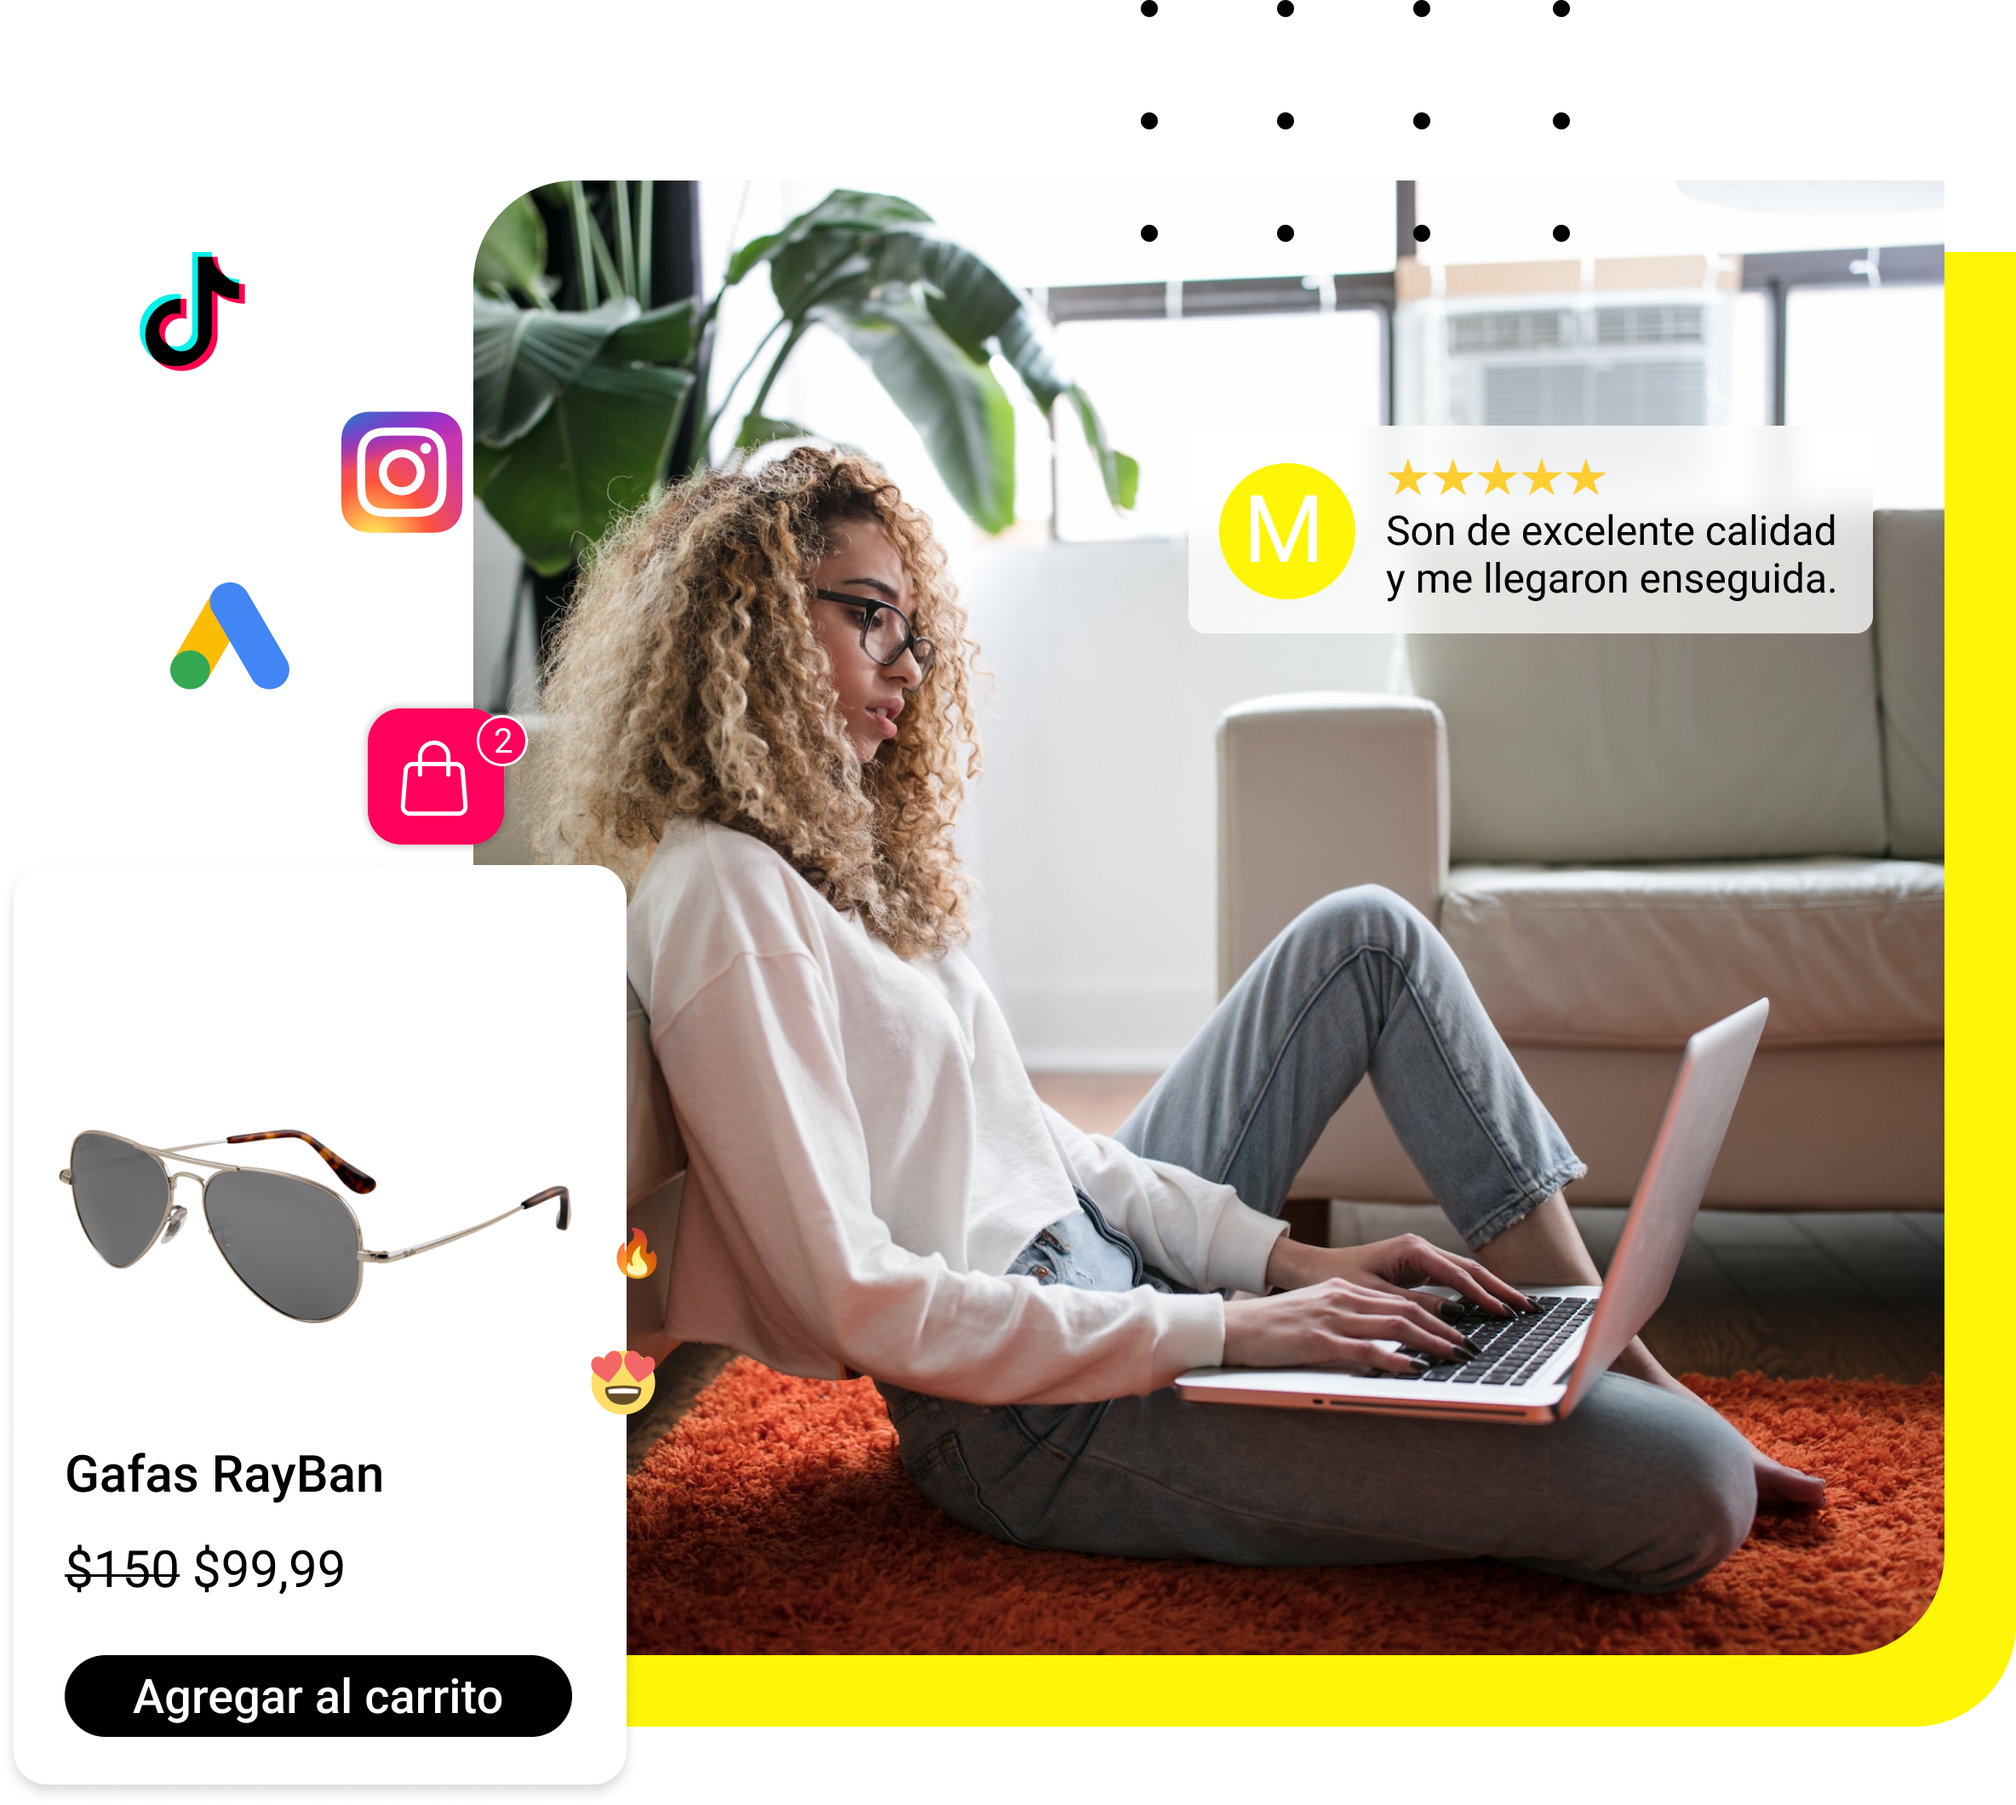
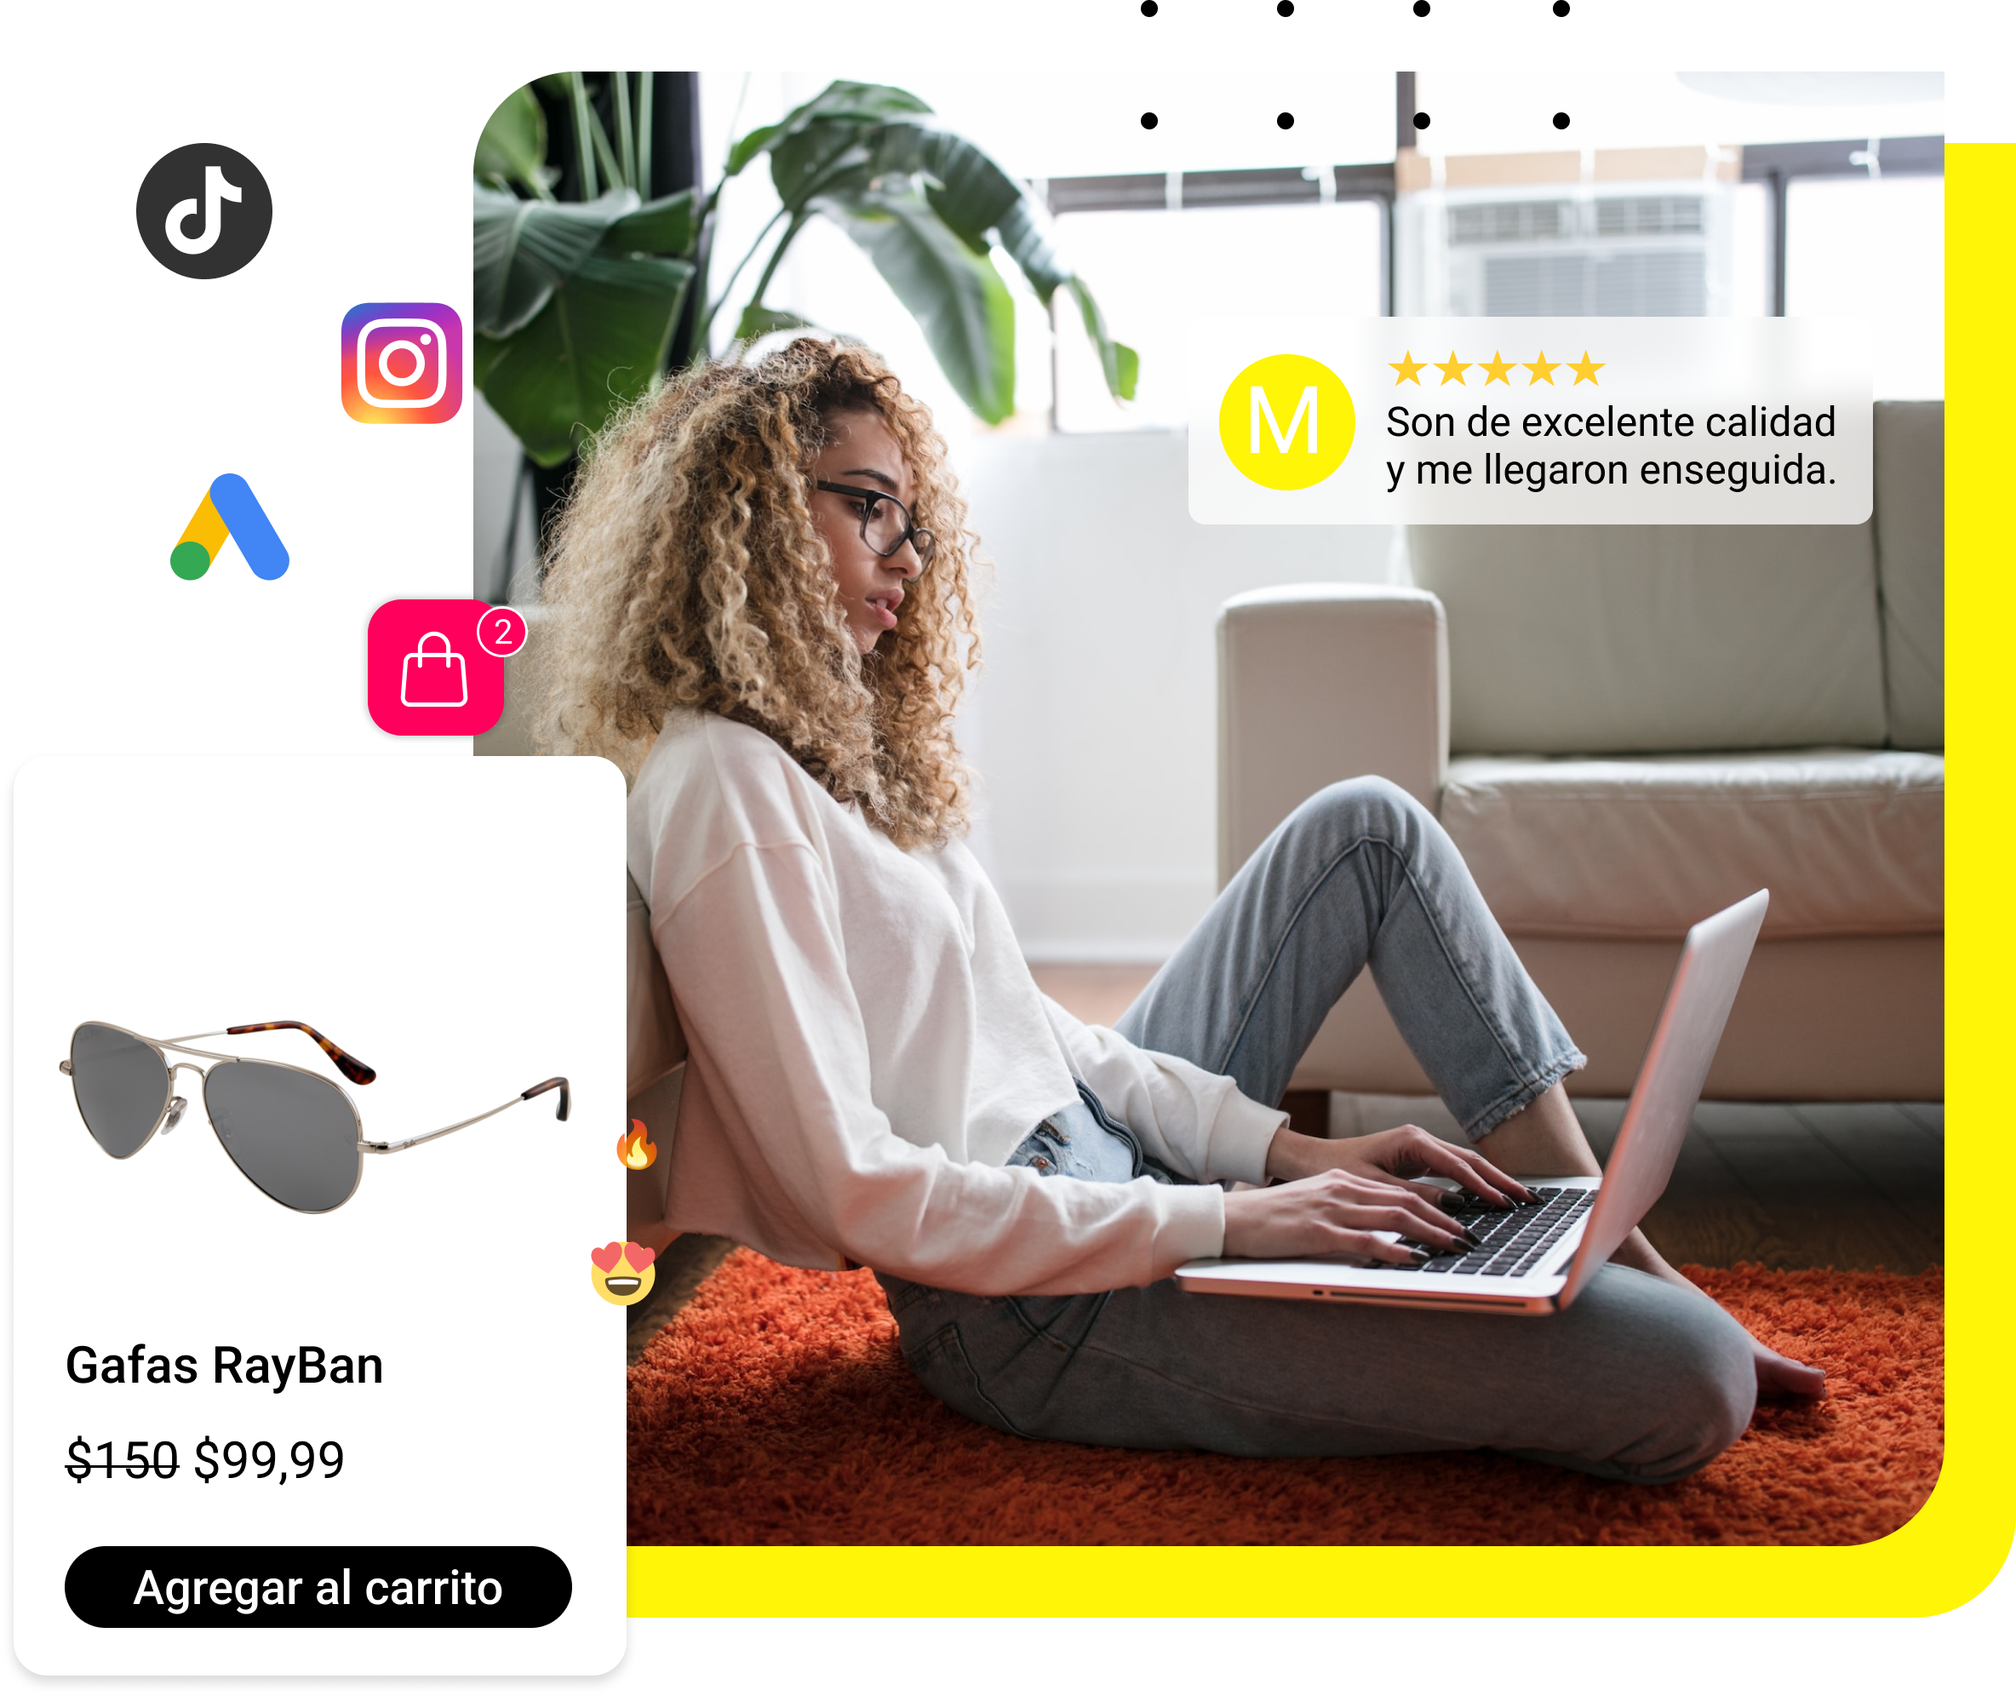
Hero image changed

diff --git a/pages/index.js b/pages/index.js
@@ -141,11 +141,11 @@ bg-white
     </div>
     <div className="relative md:grid justify-center	 items-center 
     col-start-1 md:col-start-2 col-end-2 md:col-end-3
-    pt-24 md:pt-auto px-8 md:px-auto
+    pt-24 md:pt-auto pl-4 md:pl-0 pr-2 md:pr-4  md:px-auto
     ">
         <Image src="/assets/h-h-d.png" layout="intrinsic"
-            width="588" 
-            height="524" 
+            width="550" 
+            height="462.67" 
             alt="Agencia especializada en ecommerce crespo"
         />
     </div>
